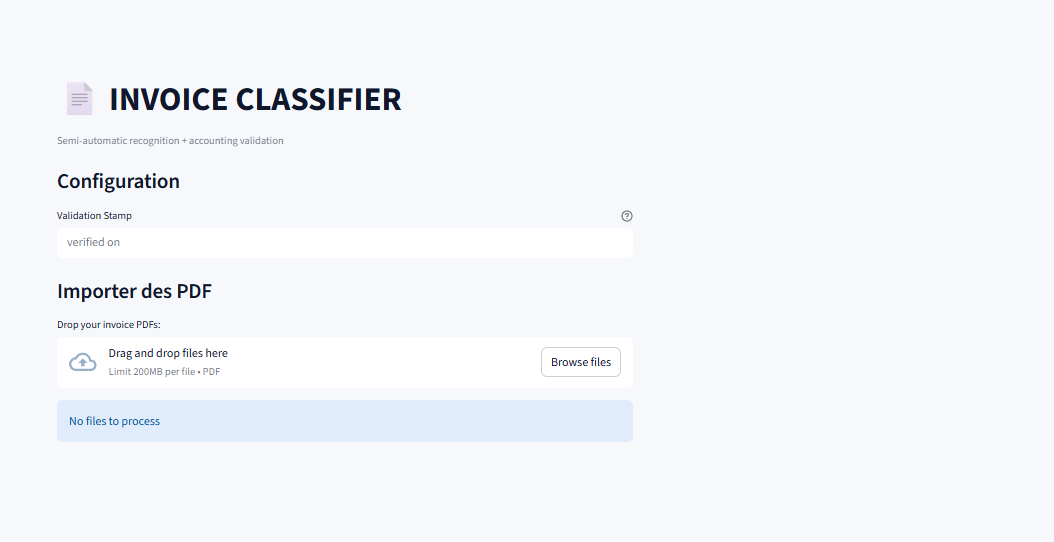
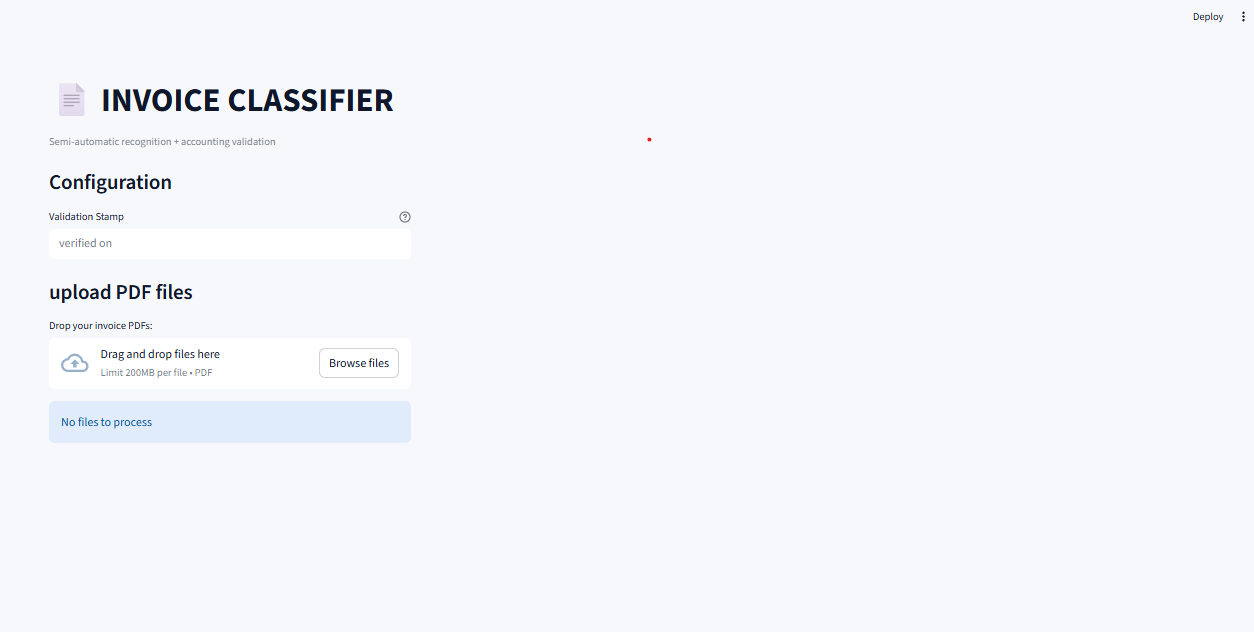
maj read me + anglias pour app

diff --git a/app.py b/app.py
@@ -85,7 +85,7 @@ with left:
     # st.sidebar.radio('write your company stamp')
 
     
-    st.subheader("Importer des PDF")
+    st.subheader("upload PDF files")
     uploaded_files = st.file_uploader("Drop your invoice PDFs:",
                                       type="pdf",
                                       accept_multiple_files=True,
@@ -113,7 +113,7 @@ with left:
 
     st.divider()
     c1,c2 = st.columns(2)
-    process_clicked = c1.button(":shark: Traiter",type = "primary",use_container_width=True)
+    process_clicked = c1.button(":shark: process",type = "primary",use_container_width=True)
     clear_clicked = c2.button("\U0001F528 Clear",type ="secondary",use_container_width=True)
 
     if process_clicked:
